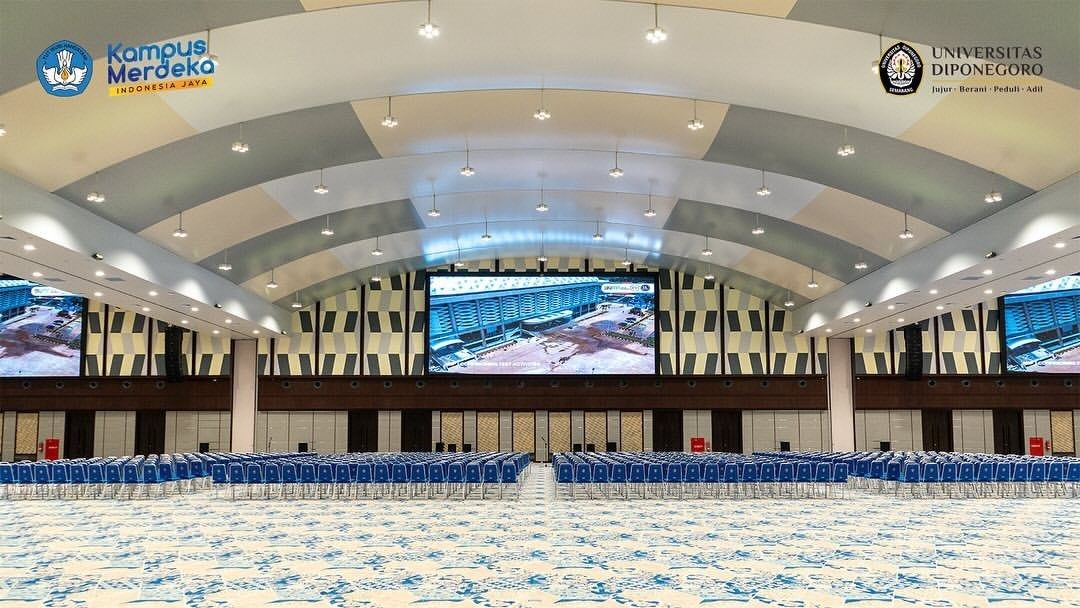
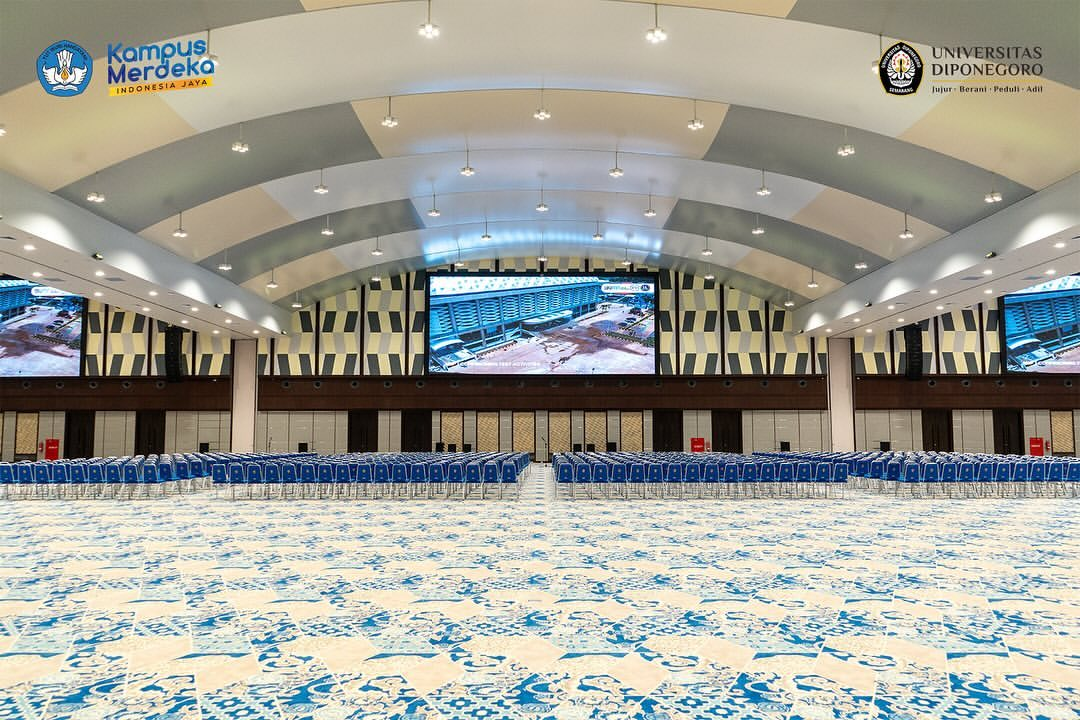
feat(facilities): add auto-scrolling photo carousel for aula on detail page
Aula now has several photos instead of one, so the detail page needs a way to browse them.

Images (resources/images):
- Add AulaSerbaguna_1..7.jpg, renamed from the originally dropped 'AulaSerbaguna (N).jpg' to match the existing naming convention (no spaces or parentheses).
- Update the cover AulaSerbaguna.jpg.

Image map (lib/facility-images.ts):
- Replace the five hard-coded imports with a Vite import.meta.glob over resources/images/*.jpg, grouped by file-name prefix into facility types. Values are now string[] per type.
- 'Prefix.jpg' is the cover; 'Prefix_N.jpg' are extra shots, sorted numerically (so _10 sorts after _2). Adding LabKomputer_1.jpg etc. works with no code change.

Carousel (components/facility-photo-carousel.tsx, new):
- Native CSS scroll-snap track, so it is swipeable and scrollable with no carousel dependency.
- Auto-advances every 3 seconds, wrapping back to the first photo. Autoplay stops permanently on the first click, touch or wheel on the track, or on a click of any control.
- Round, semi-transparent white prev/next buttons (lucide chevrons) overlaid on the left and right edges, wrap-around, shown only when there is more than one photo.
- Clickable dot indicators below the photo.
- Photos render uncropped (object-contain) in a 3:2 frame with a neutral background.

Pages:
- facilities/show.tsx: use the carousel in the left column of the detail card.
[…]

diff --git a/resources/js/components/facility-photo-carousel.tsx b/resources/js/components/facility-photo-carousel.tsx
@@ -1,0 +1,90 @@
+import { ChevronLeft, ChevronRight } from 'lucide-react';
+import { useEffect, useRef, useState } from 'react';
+
+/**
+ * Native scroll-snap carousel. Auto-advances every 3s until the visitor
+ * clicks, touches or scrolls it; then it stays under manual control.
+ */
+export default function FacilityPhotoCarousel({ images, alt }: { images: string[]; alt: string }) {
+    const track = useRef<HTMLDivElement>(null);
+    const [index, setIndex] = useState(0);
+    const [manual, setManual] = useState(false);
+
+    useEffect(() => {
+        if (manual || images.length < 2) {
+            return;
+        }
+
+        const timer = setInterval(() => {
+            const el = track.current;
+
+            if (el) {
+                const next = (Math.round(el.scrollLeft / el.clientWidth) + 1) % images.length;
+                el.scrollTo({ left: next * el.clientWidth, behavior: 'smooth' });
+            }
+        }, 3000);
+
+        return () => clearInterval(timer);
+    }, [manual, images.length]);
+
+    function goTo(i: number) {
+        setManual(true);
+        track.current?.scrollTo({ left: i * track.current.clientWidth, behavior: 'smooth' });
+    }
+
+    return (
+        <div className="self-start">
+            <div className="relative">
+                <div
+                    ref={track}
+                    onPointerDown={() => setManual(true)}
+                    onWheel={() => setManual(true)}
+                    onScroll={(e) => setIndex(Math.round(e.currentTarget.scrollLeft / e.currentTarget.clientWidth))}
+                    className="flex aspect-[3/2] snap-x snap-mandatory overflow-x-auto rounded-lg border border-[#E5E7EB] bg-[#F7F8FA] [scrollbar-width:none] [&::-webkit-scrollbar]:hidden"
+                >
+                    {images.map((src, i) => (
+                        <img
+                            key={src}
+                            src={src}
+                            alt={`${alt} ${i + 1}`}
+                            loading={i === 0 ? 'eager' : 'lazy'}
+                            draggable={false}
+                            className="h-full w-full shrink-0 snap-center object-contain"
+                        />
+                    ))}
+                </div>
+                {images.length > 1 && (
+                    <>
+                        {[
+                            { label: 'Foto sebelumnya', step: -1, Icon: ChevronLeft, side: 'left-2' },
+                            { label: 'Foto berikutnya', step: 1, Icon: ChevronRight, side: 'right-2' },
+                        ].map(({ label, step, Icon, side }) => (
+                            <button
+                                key={label}
+                                type="button"
+                                onClick={() => goTo((index + step + images.length) % images.length)}
+                                aria-label={label}
+                                className={`absolute top-1/2 ${side} flex h-8 w-8 -translate-y-1/2 items-center justify-center rounded-full bg-white/70 text-[#111827] shadow-sm backdrop-blur-sm transition hover:bg-white/90`}
+                            >
+                                <Icon className="h-4 w-4" />
+                            </button>
+                        ))}
+                    </>
+                )}
+            </div>
+            {images.length > 1 && (
+                <div className="mt-3 flex justify-center gap-1.5">
+                    {images.map((src, i) => (
+                        <button
+                            key={src}
+                            type="button"
+                            onClick={() => goTo(i)}
+                            aria-label={`Foto ${i + 1}`}
+                            className={`h-2 w-2 rounded-full transition ${i === index ? 'bg-[#2D4C79]' : 'bg-[#D0D5DD] hover:bg-[#98A2B3]'}`}
+                        />
+                    ))}
+                </div>
+            )}
+        </div>
+    );
+}

diff --git a/resources/js/lib/facility-images.ts b/resources/js/lib/facility-images.ts
@@ -1,14 +1,31 @@
-import aula from '../../images/AulaSerbaguna.jpg';
-import laboratorium from '../../images/LabKomputer.jpg';
-import lapangan from '../../images/LapBasket.jpg';
-import alat from '../../images/proyektor.jpg';
-import ruangKelas from '../../images/RuangKelas.jpg';
-
-/** Facility photo keyed by facility type; one photo per type, not per facility. */
-export const facilityImages: Record<string, string> = {
-    ruang_kelas: ruangKelas,
-    aula,
-    laboratorium,
-    alat,
-    lapangan,
+/** File-name prefix in resources/images -> facility type. */
+const prefixToType: Record<string, string> = {
+    AulaSerbaguna: 'aula',
+    LabKomputer: 'laboratorium',
+    LapBasket: 'lapangan',
+    proyektor: 'alat',
+    RuangKelas: 'ruang_kelas',
 };
+
+const files = import.meta.glob<string>('../../images/*.jpg', {
+    eager: true,
+    import: 'default',
+});
+
+/**
+ * Photos per facility type (one set per type, not per facility).
+ * `Prefix.jpg` is the cover; extra shots are `Prefix_1.jpg`, `Prefix_2.jpg`, ...
+ * Drop a new file in resources/images and it is picked up automatically.
+ */
+export const facilityImages: Record<string, string[]> = {};
+
+Object.keys(files)
+    .sort((a, b) => a.localeCompare(b, undefined, { numeric: true }))
+    .forEach((path) => {
+        const prefix = path.split('/').pop()!.replace('.jpg', '').split('_')[0];
+        const type = prefixToType[prefix];
+
+        if (type) {
+            (facilityImages[type] ??= []).push(files[path]);
+        }
+    });

diff --git a/resources/js/pages/facilities/show.tsx b/resources/js/pages/facilities/show.tsx
@@ -1,5 +1,6 @@
 import { Head, Link, router, usePage } from '@inertiajs/react';
 import { UserNavbar } from '@/components/user-navbar';
+import FacilityPhotoCarousel from '@/components/facility-photo-carousel';
 import { facilityImages } from '@/lib/facility-images';
 import DateCalendarGrid from '@/components/date-calendar-grid';
 import { useState } from 'react';
@@ -211,11 +212,7 @@ export default function FacilityShow({ facility, availability, selectedDate }: P
                     <article className="rounded-lg border border-[#E5E7EB] bg-white p-6 shadow-[0_1px_2px_rgba(16,24,40,0.03)] sm:p-8">
                         <div className="grid gap-6 lg:grid-cols-[minmax(0,2fr)_minmax(0,3fr)] lg:gap-8">
                         {facilityImages[facility.type] && (
-                            <img
-                                src={facilityImages[facility.type]}
-                                alt={facility.name}
-                                className="h-auto w-full self-start rounded-lg border border-[#E5E7EB]"
-                            />
+                            <FacilityPhotoCarousel images={facilityImages[facility.type]} alt={facility.name} />
                         )}
                         <div className="min-w-0">
                         <div className="flex flex-col justify-between gap-4 sm:flex-row sm:items-start">

diff --git a/resources/js/pages/facilities/index.tsx b/resources/js/pages/facilities/index.tsx
@@ -231,9 +231,9 @@ export default function FacilityIndex({
                                         href={`/facilities/${fac.id}`}
                                         className="group flex flex-col justify-between overflow-hidden rounded-lg border border-[#E5E7EB] bg-white shadow-[0_1px_2px_rgba(16,24,40,0.03)] hover:border-[#2D4C79] hover:shadow-md transition"
                                     >
-                                        {facilityImages[fac.type] && (
+                                        {facilityImages[fac.type]?.[0] && (
                                             <img
-                                                src={facilityImages[fac.type]}
+                                                src={facilityImages[fac.type][0]}
                                                 alt={fac.name}
                                                 loading="lazy"
                                                 className="h-40 w-full object-cover"
